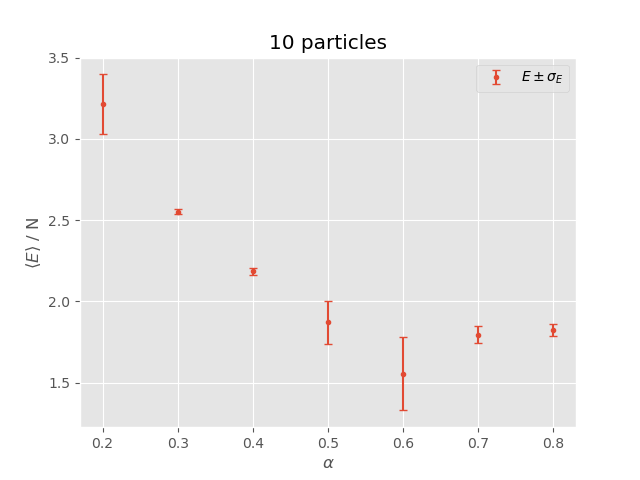
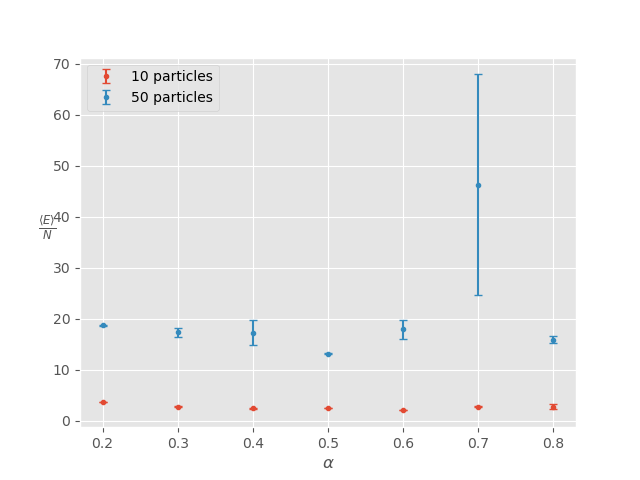
some results with correlated wf

diff --git a/project1/plot.py b/project1/plot.py
@@ -51,29 +51,34 @@ def blocking(dim, particles, log2Steps):
 def plot_correlated(log2Steps):
     DATA_DIR = "./Data/correlated_bruteforce/alpha_"
     alphas = np.arange(0.2, 0.8, 0.1)
+    ALLDATA = np.zeros((7,2,3))
 
-    for p in [10, 50, 100]:
+    for j,p in enumerate([10, 50, 100]):
         Emean = np.zeros(alphas.shape)
         Estd = np.zeros(alphas.shape)
 
         for i,alpha in enumerate(alphas):
             alpha_str = f"{alpha:1.3f}"
             filename = DATA_DIR + alpha_str + f"_{dim}d_{p}p_2pow{log2Steps}steps.bin"
-            size = 2**20
+            size = 2**17
             print(f"Blocking for alpha={alpha:1.1f}", end=", ")
             DataAnalysis = DataAnalysisClass(filename, size)
             DataAnalysis.blocking()
             Emean[i] = DataAnalysis.blockingAvg
             Estd[i] = DataAnalysis.blockingStd
 
-        Emean /= float(particles)
-        Estd /= float(particles)
-        plt.errorbar(alphas, Emean, Estd, fmt=".", capsize=3, label=f"{p} particles")
+        Emean /= float(p)
+        Estd /= float(p)
+        ALLDATA[:,0,j] = Emean
+        ALLDATA[:,1,j] = Estd
+        plt.errorbar(alphas, Emean, Estd, fmt="o--", capsize=3, label=f"{p} particles")
 
     plt.xlabel(r"$\alpha$")
     plt.ylabel(r"$\frac{\langle E\rangle}{N}$", rotation=0)
     plt.legend()
-    plt.savefig(f"./Figures/correlated_{particles}p_2pow{log2Steps}.png")
+    np.savez("blocking_correlated.npz", ALLDATA)
+    # plt.savefig(f"./Figures/correlated_{particles}p_2pow{log2Steps}.png")
+    plt.savefig(f"./Figures/correlated_with_blocking.png")
     return None
 
 
